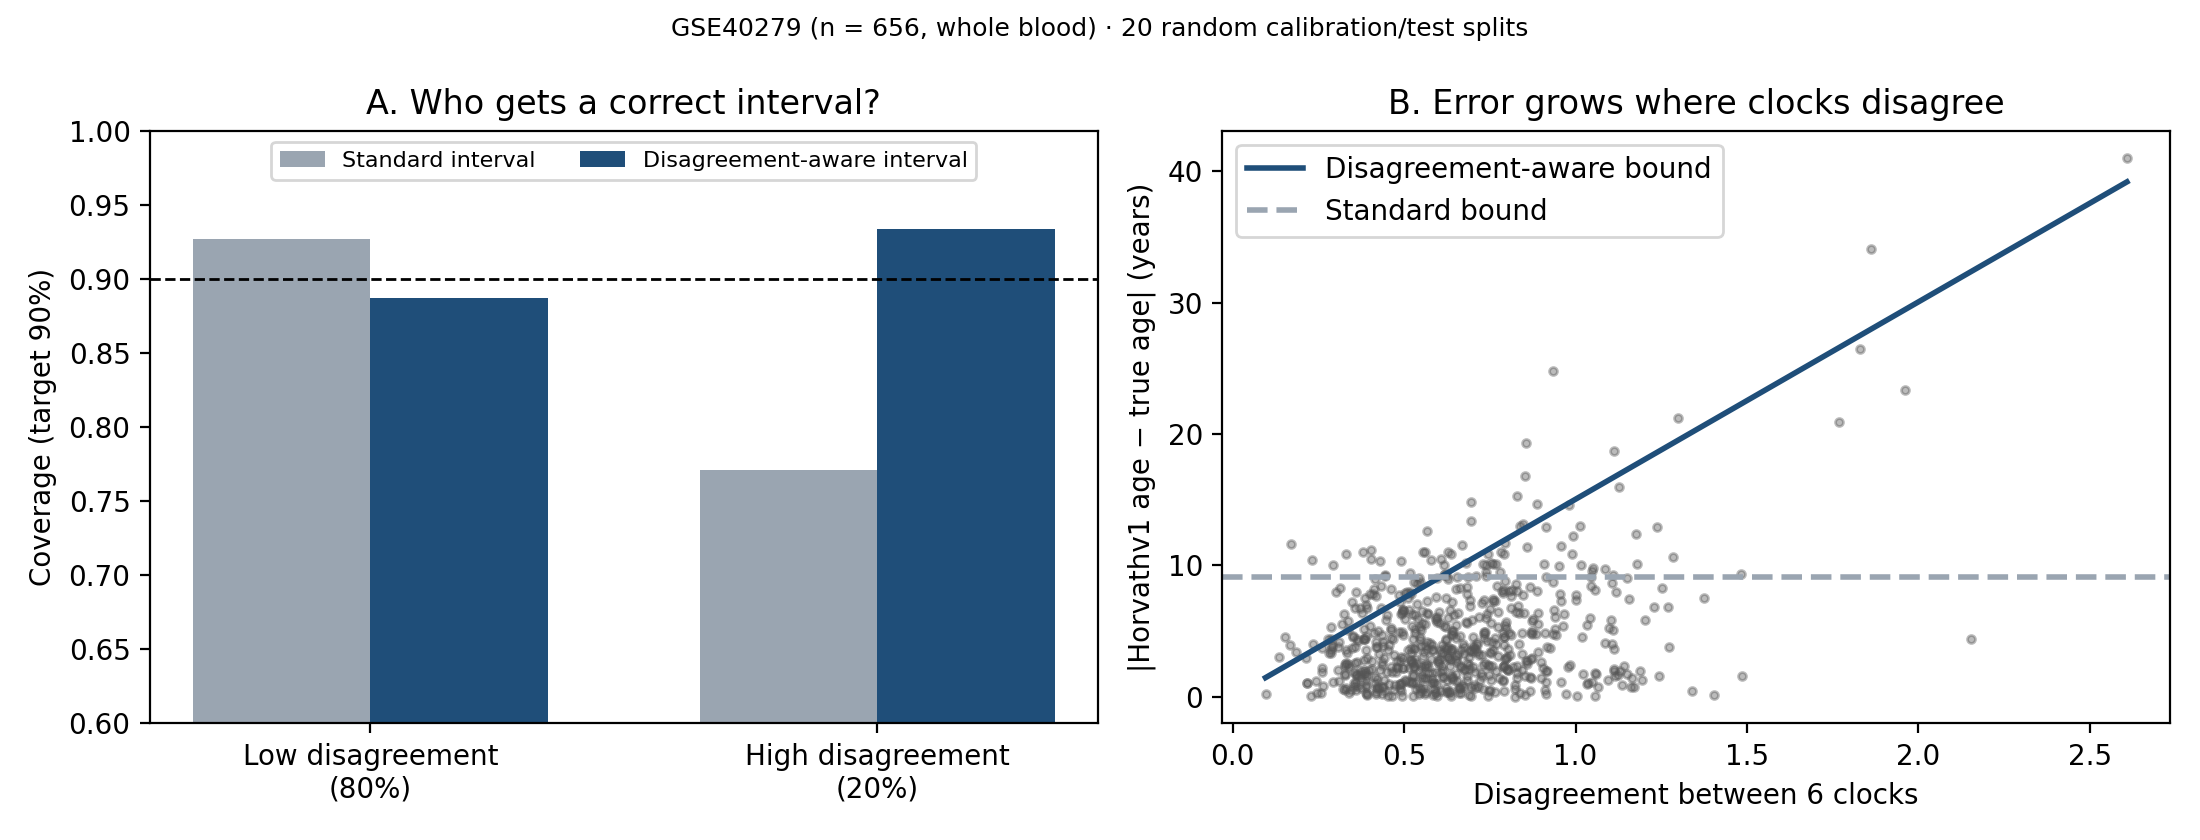
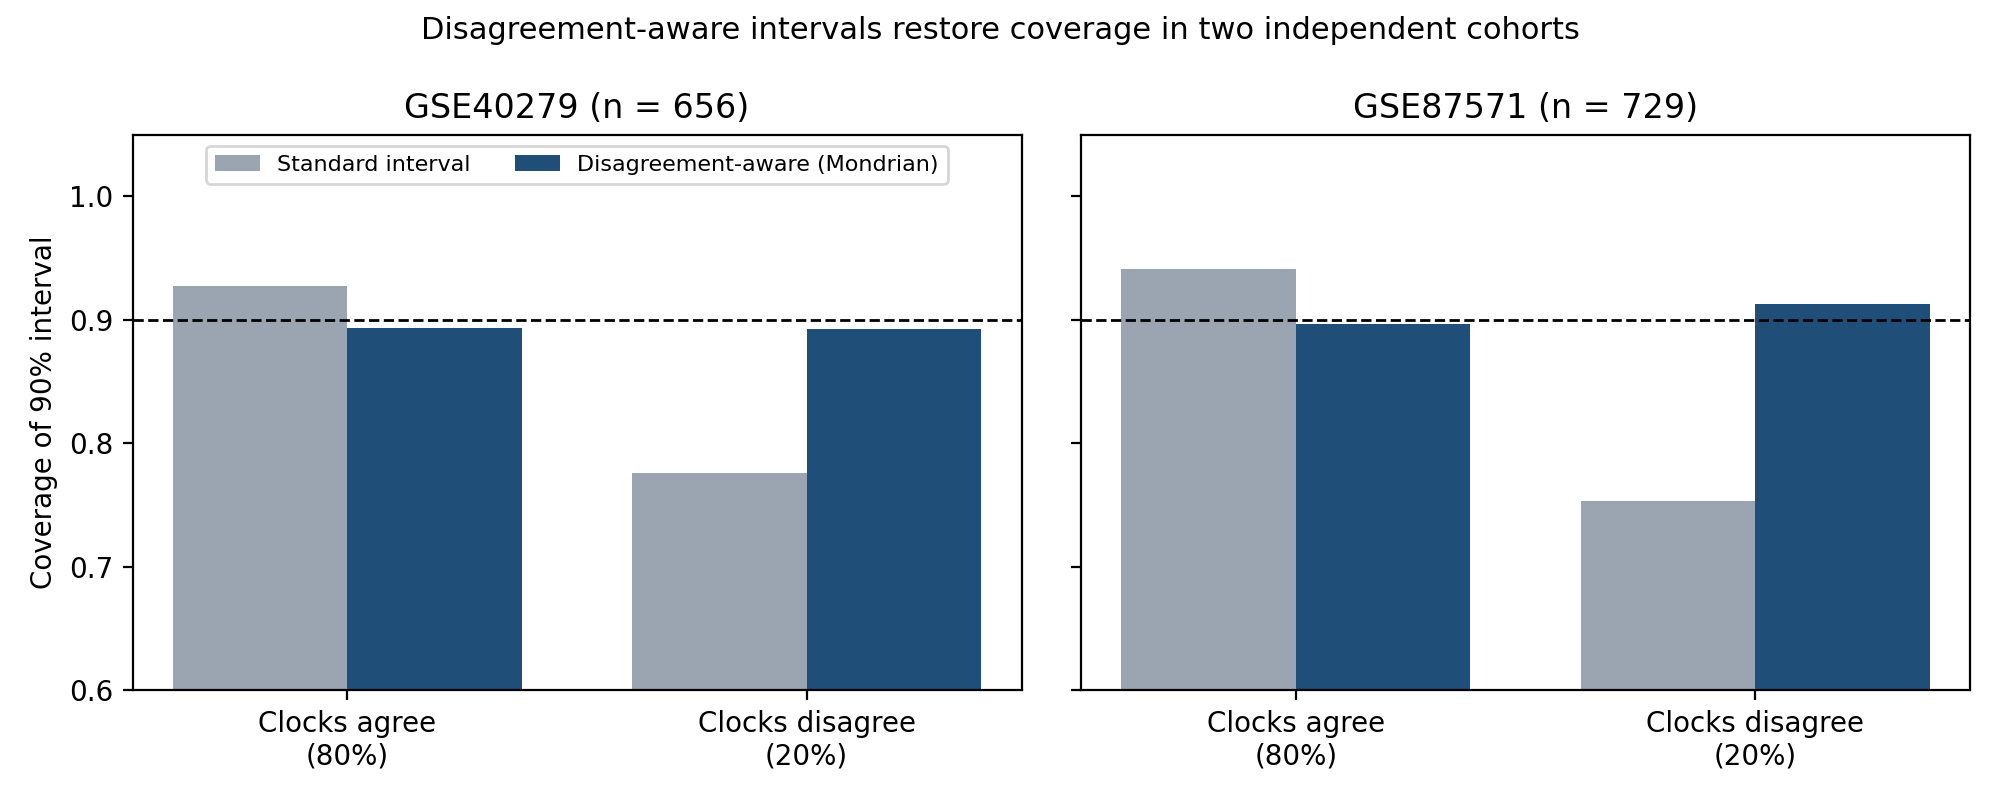
Add files via upload

diff --git a/README.md b/README.md
@@ -1,50 +1,65 @@
 # When can we trust an ageing clock?
 
-[![Open In Colab](https://colab.research.google.com/assets/colab-badge.svg)](https://colab.research.google.com/github/iRosses-omics/ageing-clock-disagreement/blob/main/clock_trust_pilot.ipynb)
+[![Open In Colab](https://colab.research.google.com/assets/colab-badge.svg)](https://colab.research.google.com/github/iRosses-omics/ageing-clock-disagreement/blob/main/clock_trust.ipynb)
 
-A small pilot on public DNA methylation data asking a simple question:
-**different epigenetic clocks give different ages for the same person — does that disagreement tell us when an estimate should not be trusted?**
+Different epigenetic clocks often give different ages for the same person.
+This project asks: **does that disagreement tell us when an estimate should not be trusted, and can we use it to give every person a reliable uncertainty interval?**
 
 ![Main figure](main_figure.png)
 
 ## Data
-- **GSE40279** (Hannum et al., 2013): Illumina 450k methylation, whole blood, **656 people**, ages 19–101
-- Clocks run with [biolearn](https://github.com/bio-learn/biolearn): Horvath v1, Hannum, PhenoAge, Horvath v2, Lin, Zhang (10 CpG)
+Two independent whole-blood DNA methylation cohorts (Illumina 450k, public on GEO):
 
-## What I did
-1. Ran six published clocks on the same people.
-2. Converted each clock to standardised **age acceleration** (residual on chronological age), so clocks are comparable.
-3. Defined a per-person **disagreement score** = spread of age acceleration across the six clocks.
-4. Built **split-conformal** 90% prediction intervals for one clock (Horvath v1), repeated over 20 random calibration/test splits.
-5. Compared a **standard** interval (same width for everyone) with a **disagreement-aware** interval (width scaled by the disagreement score).
-
-## Results
-- Clocks agree only partly: correlations of age acceleration between clocks range from **0.16 to 0.63**.
-- Disagreement is similar for women and men and across the two ethnic groups, but **rises with age** (median 0.56 under 40 vs 0.74 over 80).
-- Where clocks disagree, the clock is more wrong: median error **6.1 vs 3.8 years** (top 20% disagreement vs the rest).
-
-| 90% interval | Coverage, low disagreement (80%) | Coverage, high disagreement (20%) | Overall |
+| Cohort | Study | People | Ages |
 |---|---|---|---|
-| Standard | 93% | **77%** | 90% |
-| Disagreement-aware | 89% | **93%** | 90% |
+| GSE40279 | Hannum et al., 2013 | 656 | 19–101 |
+| GSE87571 | Johansson et al., 2013 | 729 | 14–94 |
 
-The standard interval silently fails the people on whom clocks disagree. Scaling it by cross-clock disagreement brings both groups close to the 90% target, gives slightly narrower intervals when clocks agree (18.4 vs 19.4 years) and honestly wider ones when they do not (32.8 years) — using only existing clocks and no new data.
+Six published clocks were run with [biolearn](https://github.com/bio-learn/biolearn): Horvath v1, Hannum, PhenoAge, Horvath v2, Lin, Zhang (10 CpG).
+
+## Method
+1. Run all six clocks on the same people and convert each to standardised **age acceleration** (residual on chronological age).
+2. **Disagreement score** per person = spread of age acceleration across the six clocks.
+3. **Split-conformal** 90% prediction intervals for the Horvath v1 clock, repeated over 20 random calibration/test splits:
+   - **Standard:** one interval width for everyone.
+   - **Disagreement-aware (Mondrian):** people are split into "clocks agree" (80%) and "clocks disagree" (20%) using the calibration half only, and each group gets its own calibrated width.
+
+## Results (replicated in both cohorts)
+
+**Clocks agree only partly.** Correlations of age acceleration between clocks: 0.16–0.63 (GSE40279) and 0.12–0.62 (GSE87571).
+
+**Disagreement rises with age.** Median disagreement under 40 vs over 80: 0.56 → 0.74 (GSE40279) and 0.59 → 0.90 (GSE87571).
+
+**Where clocks disagree, the clock is more wrong.** Median error is about 50–60% larger:
+
+| | GSE40279 | GSE87571 |
+|---|---|---|
+| Median error, clocks agree | 3.5 years | 3.0 years |
+| Median error, clocks disagree | 5.2 years | 4.8 years |
+
+**Standard intervals silently fail these people; disagreement-aware intervals fix it.**
+
+| Coverage of 90% interval | GSE40279 agree | GSE40279 disagree | GSE87571 agree | GSE87571 disagree |
+|---|---|---|---|---|
+| Standard | 93% | **78%** | 94% | **75%** |
+| Disagreement-aware | 89% | **89%** | 90% | **91%** |
+
+Interval width (disagreement-aware): about 15–18 years when clocks agree, 25–29 years when they disagree, so each person gets an interval that matches how much the clocks can actually be trusted for them. No new data or model training is needed — only the existing clocks.
 
 ## Limitations
-- One cohort, one tissue (blood), cross-sectional.
-- The link between disagreement and error is real but modest (Spearman ρ ≈ 0.19).
-- The Hannum clock was trained on this dataset, so it looks better here than it would elsewhere.
-- Intervals are wide overall (about ±9 years); the gain is mainly in fairness and honesty, less in precision.
+- Two cohorts, one tissue (blood), cross-sectional; no health outcomes yet.
+- The Hannum clock was trained on GSE40279.
+- The link between disagreement and error is real but modest (Spearman ρ ≈ 0.2); the gain is in fair and honest uncertainty, not in precision.
 - Uncertainty for epigenetic clocks has been studied before, e.g. with [conformalized quantile regression (medRxiv, 2024)](https://www.medrxiv.org/content/10.1101/2024.09.06.24313192). The angle here is using **cross-clock disagreement** as the uncertainty signal.
 
 ## Next steps
-- Longitudinal cohorts: does a disagreement flag predict health outcomes or mortality?
+- Longitudinal cohorts: does a high-disagreement flag predict health outcomes or mortality?
+- Other tissues, populations and array types (EPIC).
 - Add other omics layers (e.g. metabolomics) alongside methylation.
-- Better-calibrated adaptive intervals (e.g. conformalized quantile regression with disagreement as a feature).
-- Test in other tissues and populations.
+- Package as a small tool that returns, for each person, ages from several clocks, a trust flag and a calibrated interval.
 
 ## How to run
-Open the notebook in Colab (badge above) and run the cells in order. The data (~1.2 GB) is downloaded directly from NCBI GEO and read in chunks to fit in Colab memory.
+Open the notebook in Colab (badge above) and run all cells. Data are downloaded directly from NCBI GEO and read in chunks to fit in Colab memory.
 
 ---
-*Maryam Hoseini · computational biologist · [LinkedIn](https://linkedin.com/in/maryam-hoseini-maryam)*
+*Maryam Hoseini · computational biologist*
